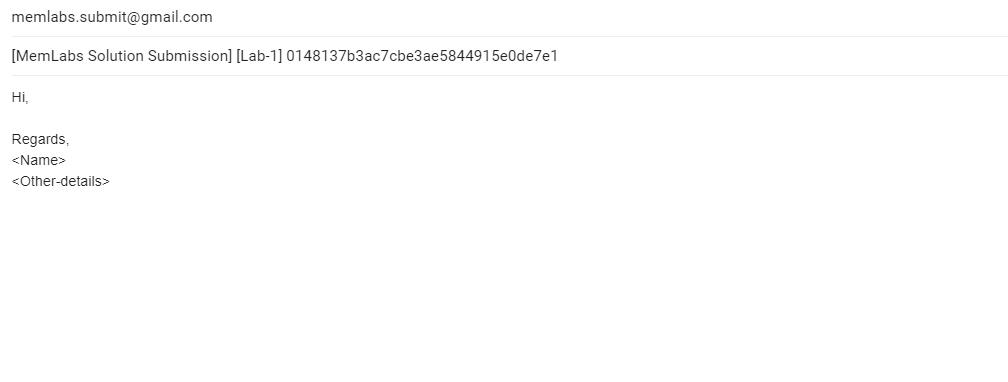
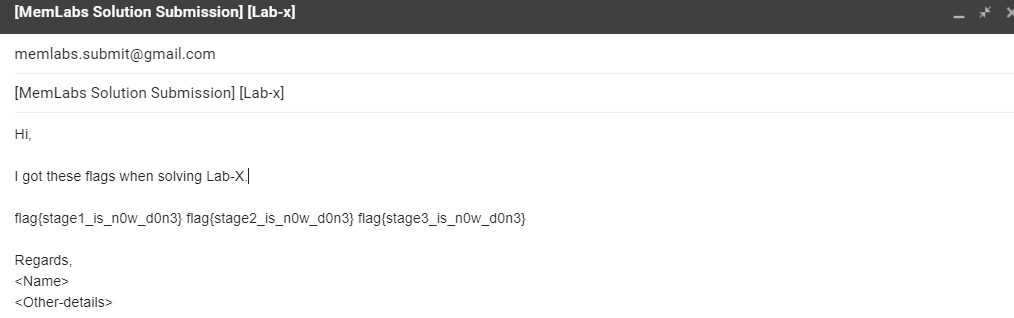
Update README

diff --git a/README.md b/README.md
@@ -1,10 +1,14 @@
 ![logo](./Images/logo.png)
 
-MemLabs is an educational, introductory set of CTF-styled challenges which are aimed to encourage students, security researchers and also CTF players to get started with the field of **Memory Forensics**.
+MemLabs is an educational, introductory set of CTF-styled challenges which is aimed to encourage students, security researchers and also CTF players to get started with the field of **Memory Forensics**.
+
+**Warning**: The size of the repository is over 1 GB. Please clone or download files as needed.
 
 ## **Motivation**
 
 The main goal of creating this repository was provide a reliable platform where individuals can learn, practice and enhance their skills in the field of memory forensics. As of the CTF-style, well, what better & interesting way to learn security than by playing CTFs?
+
+I also believe these labs can be used by anyone to help others become good with the basic essentials and fundamentals of memory forensics.
 
 ## **Structure Of The Repository**
 
@@ -19,7 +23,7 @@ The main goal of creating this repository was provide a reliable platform where 
 
 ## **Flag Submission**
 
-Please mail the MD5SUM of the flags to memlabs.submit@gmail.com
+Please mail the flags of each lab to memlabs.submit@gmail.com
 
 Please have a look at the following example to better understand on how to submit the solution.
 
@@ -29,23 +33,23 @@ Suppose you find 3 flags in a particular lab,
 + flag{stage2_is_n0w_d0n3}
 + flag{stage3_is_n0w_d0n3}
 
-Concatenate all the flags like this: **flag{stage1_is_n0w_d0n3}flag{stage2_is_n0w_d0n3}flag{stage3_is_n0w_d0n3}**
+Concatenate all the flags like this: **flag{stage1_is_n0w_d0n3} flag{stage2_is_n0w_d0n3} flag{stage3_is_n0w_d0n3}**
 
-**Note**: Place the flags in the right order. The content inside the flags indicate their place
-
-The corresponding MD5sum would be **0148137b3ac7cbe3ae5844915e0de7e1**
+**Note**: Place the flags in the right order. The content inside the flags indicate their place. The flags must be space separated.
 
 ### **Email Format**
 
 Please follow the following guidelines when sending the solution:
 
-**Email Subject**: [MemLabs Solution Submission] [Lab-x] [Md5sum]
+**Email Subject**: [MemLabs Solution Submission] [Lab-x]
 
 ![Email-Picture](./Images/Submission.png)
 
 Email your solution to memlabs.submit@gmail.com
 
-## Feedback & Suggestions
+If the solution is correct, then the participant will recieve a confirmation 
+
+## **Feedback & Suggestions**
 
 I'd really love the community's feedback regarding these labs. Any suggestions or improvements are always welcome. Please email it to me.
 
